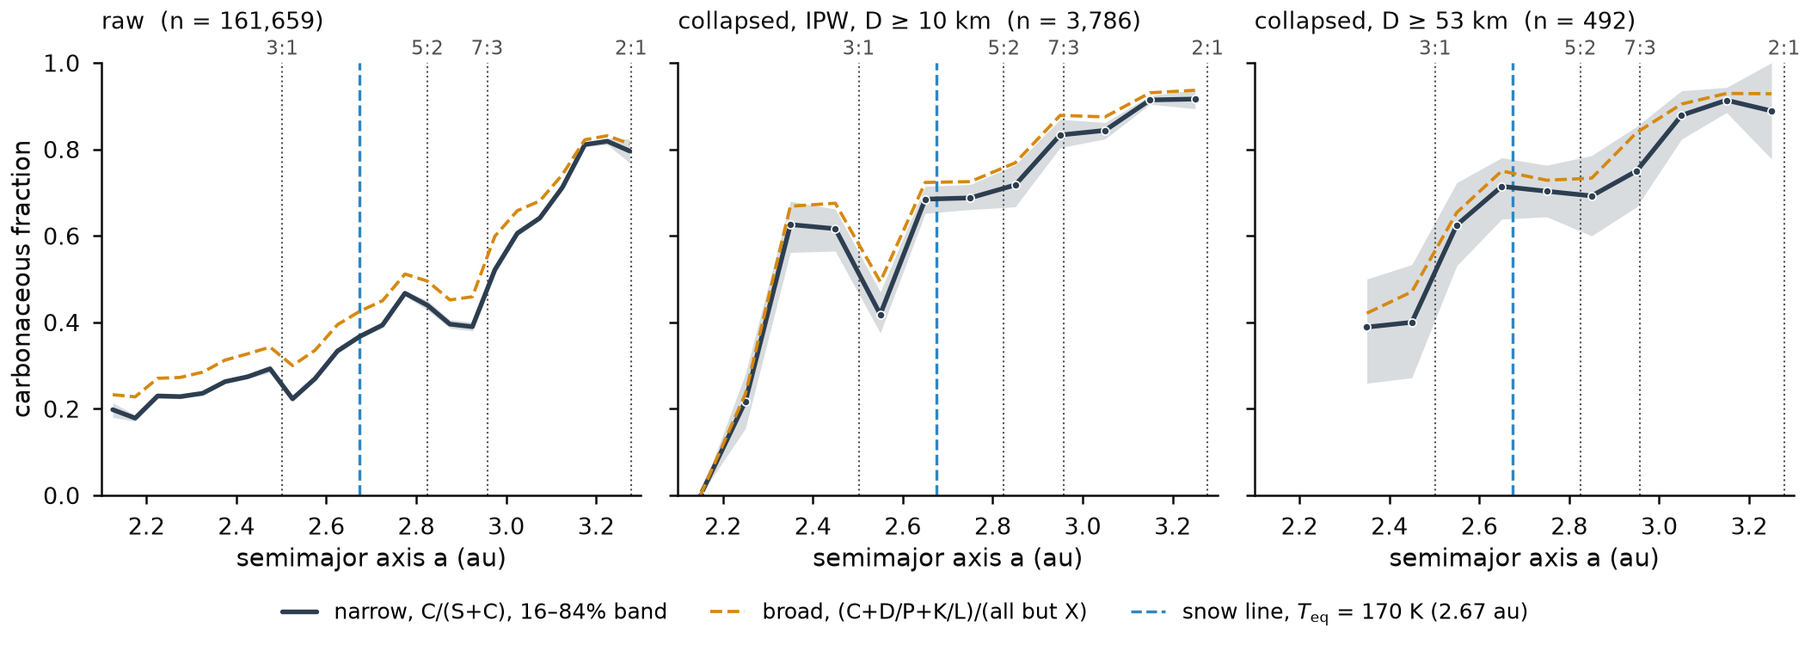
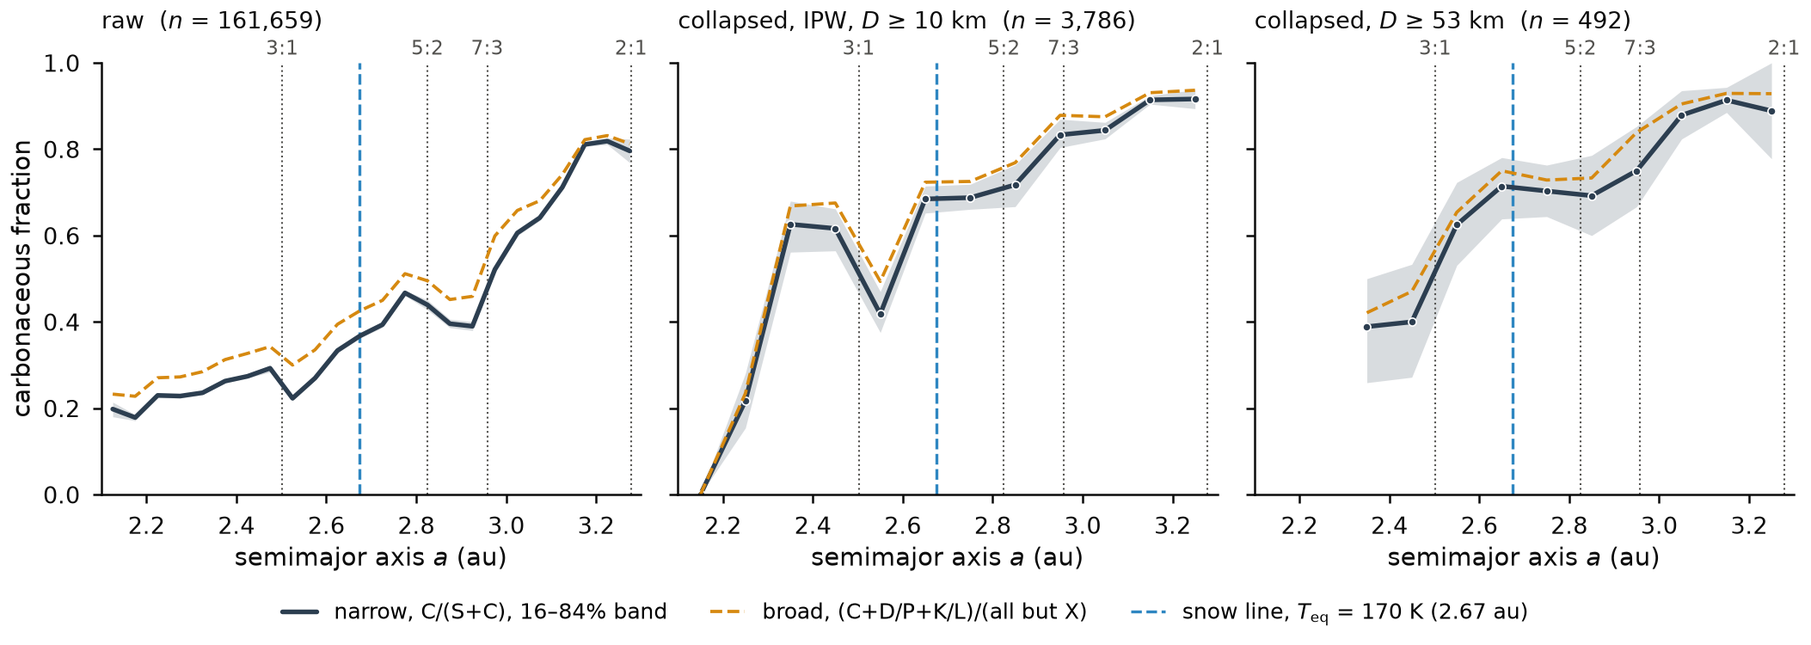
Set figure variables in italics and clear Fig. 12's legend (v2.6.3)
Figures (drawing only; summary.json is identical apart from the version):
- Variables in labels are italic, as the paper sets them: semimajor axis a,
  diameter D, absolute magnitude H, sample size n, P(C | a), KS p, proper
  e_P and sin i_P. The relation sign stays outside math with text spaces,
  as in the existing "p_V < 0.10". Every figure but Figs. 1 and 7 changes.
- Fig. 12: the legend moves below the plot, where the p_V = 0.30 line no
  longer crosses it; the figure keeps its 2.0 in height.
- Fig. 10: the Koronis label moves off the 5:2 line and no family label
  sits on the axis.
- Figs. 2 and 11: no doubled parentheses in the legends.
- Fig. 8: the lower panel gives its diameter limits in km.

Repo text:
- README: release history becomes a list under "Releases" (text moved
  verbatim), with v2.6.3 added; v2.6.2 was merged but not released on its
  own. Fixes stale figure numbers (circularity is Fig. 2; v2.5.0 added
  Figs. 6, 8, 10 and 13; v2.3.1 changed what is now Fig. 5), names IPW as
  in the paper, writes au and American spelling.
- pipeline.py: three comments cite current figure numbers; the log line
  writes au.
- Version 2.6.3 in __init__.py and CITATION.cff (date-released 2026-10-10).

diff --git a/src/beltgradient/figures.py b/src/beltgradient/figures.py
@@ -37,6 +37,16 @@ RCPARAMS = {
     "axes.titlepad": 3, "axes.labelpad": 2, "lines.linewidth": 1.2, "lines.solid_capstyle": "round",
 }
 GROUP_ORDER = ["S-like", "K/L", "X", "C-like", "D/P"]
+AXIS_A = "semimajor axis $a$ (au)"
+ELEMENT_LABELS = {"e_p": "proper $e_\\mathrm{P}$", "sini_p": "proper $\\sin i_\\mathrm{P}$"}
+
+
+def _math(s: str) -> str:
+    """Variables in italic, as the paper sets them: "D≥10 km" -> "$D$ ≥ 10 km", "$H$ < 15", "$n$ = 3,786".
+    The relation sign stays outside math, with text spaces, as in "$p_\\mathrm{V}$ < 0.10"."""
+    s = re.sub(r"\bD ?≥ ?(\d+)", r"$D$ ≥ \1", s)
+    s = re.sub(r"\bH < (\d+)", r"$H$ < \1", s)
+    return re.sub(r"\bn = ", "$n$ = ", s)
 
 
 def _fig(w, h, **kw):
@@ -65,7 +75,7 @@ def completeness_plot(comp: pd.DataFrame, h_c: float, d_c: float):
     ax.axhline(COMPLETE_FRAC, color=INK2, ls=":", lw=.6)
     ax.axvline(h_c, color=COLORS["S-like"], lw=.8)
     ax.text(h_c + .15, .08, f"$H_\\mathrm{{c}}$ = {h_c}\n$D_\\mathrm{{c}}$ ≈ {d_c:.0f} km", color=COLORS["S-like"], fontsize=6)
-    ax.set(xlabel="absolute magnitude H", ylabel="fraction with a published taxonomy", xlim=(5, 18.5), ylim=(0, 1.03))
+    ax.set(xlabel="absolute magnitude $H$", ylabel="fraction with a published taxonomy", xlim=(5, 18.5), ylim=(0, 1.03))
     ax.legend(loc="lower left")
     return fig
 
@@ -84,8 +94,8 @@ def c_fraction_panels(samples: dict[str, pd.DataFrame], panel_keys: list[str], r
         cb = c_fraction_curve(s, rng, "broad", edges=np.arange(A_MIN, A_MAX + 1e-9, wide), n_boot=20)
         ax.plot(cb.a[ok], cb.f[ok], color=COLORS["K/L"], lw=.9, ls="--")
         mark_structure(ax)
-        ax.set_title(f"{k.replace('≥', ' ≥ ')}  (n = {len(s):,})", loc="left", fontsize=6.5, color=INK)
-        ax.set(xlabel="semimajor axis a (au)", ylim=(0, 1), xlim=(A_MIN, A_MAX))
+        ax.set_title(_math(f"{k}  (n = {len(s):,})"), loc="left", fontsize=6.5, color=INK)
+        ax.set(xlabel=AXIS_A, ylim=(0, 1), xlim=(A_MIN, A_MAX))
     axes[0].set_ylabel("carbonaceous fraction")
     axes[0].plot([], [], color=COLORS["C-like"], lw=1.3, label="narrow, C/(S+C), 16–84% band")
     axes[0].plot([], [], color=COLORS["K/L"], lw=.9, ls="--", label="broad, (C+D/P+K/L)/(all but X)")
@@ -112,8 +122,8 @@ def stacked_composition(s: pd.DataFrame, d_c: float):
     top.set_xticks(x, [f"{int(n)}" for n in st.sum(axis=1)])
     top.tick_params(length=0, pad=1, labelsize=5.5, labelcolor=INK2)
     top.spines["top"].set_visible(False)
-    top.set_xlabel(f"bodies per bin (D ≥ {d_c:.0f} km, families collapsed)", fontsize=6, color=INK2, labelpad=2)
-    ax.set(xlim=(A_MIN, A_MAX), ylim=(0, 1), xlabel="semimajor axis a (au)", ylabel="fraction by number")
+    top.set_xlabel(_math(f"bodies per bin (D ≥ {d_c:.0f} km, families collapsed)"), fontsize=6, color=INK2, labelpad=2)
+    ax.set(xlim=(A_MIN, A_MAX), ylim=(0, 1), xlabel=AXIS_A, ylabel="fraction by number")
     fig.legend(*ax.get_legend_handles_labels(), loc="outside lower center", ncol=len(order), handlelength=1.0, columnspacing=1.0)
     return fig
 
@@ -148,11 +158,11 @@ def orbital_cdfs(orb: pd.DataFrame):
             for arr, g in [(S, "S-like"), (C, "C-like")]:
                 if len(arr):
                     ax.step(np.sort(arr), np.arange(1, len(arr) + 1) / len(arr), color=COLORS[g], lw=.9, where="post",
-                            label=f"{g} (n = {len(arr):,})")
+                            label=_math(f"{g} (n = {len(arr):,})"))
             if len(S) >= 10 and len(C) >= 10:
                 p = stats.ks_2samp(S, C).pvalue
-                ax.text(.03, .97, f"KS p = {p:#.2g}", transform=ax.transAxes, ha="left", va="top", fontsize=5.5, color=INK2)
-            ax.set(xlabel=lab.replace("proper ", "proper "), ylabel="cumulative fraction" if j == 0 else None, ylim=(0, 1.02))
+                ax.text(.03, .97, f"KS $p$ = {p:#.2g}", transform=ax.transAxes, ha="left", va="top", fontsize=5.5, color=INK2)
+            ax.set(xlabel=ELEMENT_LABELS[col], ylabel="cumulative fraction" if j == 0 else None, ylim=(0, 1.02))
             if i == 0:
                 ax.set_title(z, loc="left", fontsize=6.5)
                 ax.legend(loc="lower right", fontsize=5.5, handlelength=1.2)
@@ -161,14 +171,15 @@ def orbital_cdfs(orb: pd.DataFrame):
 
 def dark_fraction(alb: pd.DataFrame, d_ca: float, rng: np.random.Generator):
     fig, ax = _fig(COL_W, 2.3)
-    for lab, d, c in [("all with measured albedo", alb, "#9aa5a6"),
-                      (f"background, D ≥ {d_ca:.0f} km (complete)", alb[~alb.in_family & (alb.diameter_km >= d_ca)], COLORS["C-like"])]:
-        x, f, lo, hi, n = dark_curve(d, np.arange(A_MIN, A_MAX + 1e-9, 0.1 if "D ≥" in lab else BIN_W), rng)
+    for lab, d, c, w in [("all with measured albedo", alb, "#9aa5a6", BIN_W),
+                         (f"complete background, D ≥ {d_ca:.0f} km", alb[~alb.in_family & (alb.diameter_km >= d_ca)],
+                          COLORS["C-like"], 0.1)]:
+        x, f, lo, hi, n = dark_curve(d, np.arange(A_MIN, A_MAX + 1e-9, w), rng)
         k = n >= 5
         ax.fill_between(x[k], lo[k], hi[k], color=c, alpha=.2, lw=0)
-        ax.plot(x[k], f[k], color=c, lw=1.2, label=f"{lab} (n = {len(d):,})")
+        ax.plot(x[k], f[k], color=c, lw=1.2, label=_math(f"{lab} (n = {len(d):,})"))
     mark_structure(ax)
-    ax.set(xlabel="semimajor axis a (au)", ylabel="fraction with $p_\\mathrm{V}$ < 0.10", ylim=(0, 1), xlim=(A_MIN, A_MAX))
+    ax.set(xlabel=AXIS_A, ylabel="fraction with $p_\\mathrm{V}$ < 0.10", ylim=(0, 1), xlim=(A_MIN, A_MAX))
     fig.legend(*ax.get_legend_handles_labels(), loc="outside lower center")
     return fig
 
@@ -176,12 +187,12 @@ def dark_fraction(alb: pd.DataFrame, d_ca: float, rng: np.random.Generator):
 def circularity(assumed: pd.DataFrame, raw: pd.DataFrame, rng: np.random.Generator):
     """The assumed-albedo tier returns the step function it was built from."""
     fig, ax = _fig(COL_W, 2.3)
-    for lab, d, c in [("assumed-albedo labels (circular)", assumed, "#e67e22"),
+    for lab, d, c in [("assumed-albedo labels, circular", assumed, "#e67e22"),
                       ("published taxonomy, raw", raw, COLORS["C-like"])]:
         cc = c_fraction_curve(d, rng, "narrow", n_boot=50)
-        ax.plot(cc.a, cc.f, color=c, lw=1.2, label=f"{lab} (n = {len(d):,})")
+        ax.plot(cc.a, cc.f, color=c, lw=1.2, label=_math(f"{lab} (n = {len(d):,})"))
     mark_structure(ax, snow=False)
-    ax.set(xlabel="semimajor axis a (au)", ylabel="C/(S+C)", ylim=(-.02, 1.02), xlim=(A_MIN, A_MAX))
+    ax.set(xlabel=AXIS_A, ylabel="C/(S+C)", ylim=(-.02, 1.02), xlim=(A_MIN, A_MAX))
     fig.legend(*ax.get_legend_handles_labels(), loc="outside lower center")
     return fig
 
@@ -214,7 +225,7 @@ def size_distance_map(s: pd.DataFrame):
     top.spines["top"].set_visible(False)
     ax.set_yticks(np.arange(shape[0]) + .5, ["10–20", "20–50", "50–100", "≥ 100"])
     ax.tick_params(axis="y", length=0)
-    ax.set(xlabel="semimajor axis a (au)", ylabel="diameter D (km)", xlim=(A_MIN, A_MAX))
+    ax.set(xlabel=AXIS_A, ylabel="diameter $D$ (km)", xlim=(A_MIN, A_MAX))
     for side in ("left", "bottom"):
         ax.spines[side].set_visible(False)
     cb = fig.colorbar(m, ax=ax, pad=.02, fraction=.06, aspect=18, ticks=[0, .25, .5, .75, 1])
@@ -232,7 +243,7 @@ def crossover_fits(xo: pd.DataFrame):
     fig, (ax, ax2) = _fig(COL_W, 3.0, nrows=2, sharex=True, gridspec_kw={"height_ratios": [3, 1.15]})
     x = np.linspace(1.4, 4.0, 521)
     inb = (x >= A_MIN) & (x <= A_MAX)
-    labels = [k.replace("≥", " ≥ ") for k in xo.index]
+    labels = [_math(k) for k in xo.index]
     for ax_ in (ax, ax2):
         ax_.axvspan(A_MIN, A_MAX, color=BAND, lw=0, zorder=0)
         ax_.axvline(SNOW_LINE_AU, color=SNOW, lw=.8, ls="--", zorder=1)
@@ -250,18 +261,20 @@ def crossover_fits(xo: pd.DataFrame):
         ax.axhline(yy, color="#dcdbd6", lw=.5, zorder=1)
     ax.text((A_MIN + A_MAX) / 2, 1.0, "main belt", ha="center", va="bottom", fontsize=5.5, color=INK2, transform=ax.get_xaxis_transform())
     ax.text(SNOW_LINE_AU + .03, .02, "snow line", fontsize=5.5, color=SNOW, va="bottom")
-    ax.set(ylim=(0, 1), ylabel="fitted P(C | a)")
+    ax.set(ylim=(0, 1), ylabel="fitted $P(\\mathrm{C} \\mid a)$")
     ax.set_yticks([0, .1, .5, .9, 1])
     fig.legend(*ax.get_legend_handles_labels(), loc="outside upper center", ncol=2, fontsize=5.5)
-    ax2.set_yticks(range(len(xo)), ["raw", "IPW, D ≥ 10", "D ≥ 53", "background"][::-1] if len(xo) == 4 else labels[::-1])
+    short = ["raw", "IPW, D ≥ 10 km", "D ≥ 53 km", "background"]
+    ax2.set_yticks(range(len(xo)), [_math(s) for s in short][::-1] if len(xo) == 4 else labels[::-1])
     ax2.tick_params(axis="y", length=0, labelsize=5.5)
-    ax2.set(xlim=(1.4, 4.0), ylim=(-.6, len(xo) - .4), xlabel="semimajor axis a (au)")
+    ax2.set(xlim=(1.4, 4.0), ylim=(-.6, len(xo) - .4), xlabel=AXIS_A)
     ax2.set_ylabel("$a_{50}$", fontsize=6)
     return fig
 
 
 FAMILY_LABELS = {"Vesta": (0, -.035), "Flora": (-.03, -.05), "Nysa-Polana": (0, -.032), "Eunomia": (0, .055),
-                 "Koronis": (0, -.03), "Eos": (0, .05), "Themis": (0, .045), "Hygiea": (0, .045)}
+                 "Koronis": (.012, -.03), "Eos": (0, .05), "Themis": (0, .045), "Hygiea": (0, .045)}
+LABEL_Y_MIN = .02   # keeps a label's box above the axis line
 
 
 def proper_element_map(mb: pd.DataFrame, orb: pd.DataFrame, ftab: pd.DataFrame):
@@ -275,19 +288,20 @@ def proper_element_map(mb: pd.DataFrame, orb: pd.DataFrame, ftab: pd.DataFrame):
     for g in ["S-like", "C-like"]:
         d = orb[orb.group.eq(g)]
         ax.scatter(d.a_p, d.sini_p, s=1.6, color=COLORS[g], lw=0, alpha=.9, zorder=2,
-                   label=f"{g} (n = {len(d):,})")
+                   label=_math(f"{g} (n = {len(d):,})"))
     for name, (dx, dy) in FAMILY_LABELS.items():
         ids = ftab.index[ftab.fam_name.eq(name)]
         if len(ids):
             m = fam[fam.fam_id.eq(ids[0])]
             if len(m):
-                ax.text(m.a_p.median() + dx, m.sini_p.median() + dy, name.replace("-", "–"), fontsize=5.2, color=INK,
+                y = max(m.sini_p.median() + dy, LABEL_Y_MIN)
+                ax.text(m.a_p.median() + dx, y, name.replace("-", "–"), fontsize=5.2, color=INK,
                         ha="center", va="center", zorder=3,
                         bbox=dict(boxstyle="round,pad=0.12", fc="white", ec="none", alpha=.75))
     mark_structure(ax, snow=False)
     ax.set(xlim=(A_MIN, A_MAX), ylim=(0, top_i), xlabel="proper semimajor axis $a_\\mathrm{P}$ (au)", ylabel="proper sin $i_\\mathrm{P}$")
     fig.legend(*ax.get_legend_handles_labels(), loc="outside lower center", ncol=3, markerscale=3.5, handletextpad=.3,
-               title=f"background bodies, D ≥ {D_ORBIT:.0f} km:", title_fontsize=6, alignment="left")
+               title=_math(f"background bodies, D ≥ {D_ORBIT:.0f} km:"), title_fontsize=6, alignment="left")
     return fig
 
 
@@ -335,7 +349,7 @@ def robustness_summary(summary: dict, keys: list[str]):
             ax.plot(f, -y, marker=ZONE_MARKERS[z], ms=3.3, color=ZONE_COLORS[z], mec="white", mew=.45, ls="none", zorder=3)
         y += 1
     ax.axhline(-3.5 - .35, color=RULE, lw=.5)
-    ax.set_yticks(ys, labs, fontsize=5.8)
+    ax.set_yticks(ys, [_math(s) for s in labs], fontsize=5.8)
     for t, is_main in zip(ax.get_yticklabels(), main):
         t.set_color(INK if is_main else INK2)
     ax.tick_params(axis="y", length=0)
@@ -408,7 +422,7 @@ def sample_flow(summary: dict, keys: list[str]):
     fig.subplots_adjust(0, 0, 1, 1)
     ax.set(xlim=(0, 100), ylim=(0, 100)); ax.axis("off")
     _box(ax, 8, 86, 92, 99, [f"AsteroidCatalog {c['release']}: {c['rows']:,} bodies",
-                             f"main belt (2.1 < a < 3.3 au, q > 1.3 au): {c['main_belt']:,}"])
+                             f"main belt (2.1 < $a$ < 3.3 au, $q$ > 1.3 au): {c['main_belt']:,}"])
     _box(ax, 1, 62, 33, 77, ["published taxonomy", f"{tiers['taxonomy']:,}", "the labels analyzed"], focal=True)
     _box(ax, 35, 62, 65, 77, ["measured albedo", f"{tiers['albedo_proxy']:,}", "labels not used"], muted=True)
     _box(ax, 67, 62, 99, 77, ["assumed albedo", f"{tiers['assumed']:,}", "circular (Fig. 2)"], muted=True)
@@ -425,7 +439,7 @@ def sample_flow(summary: dict, keys: list[str]):
               ("collapsed", f"D ≥ {summary['completeness']['D_complete_km']:.0f} km", f"n = {ss['collapsed_complete']:,}"),
               ("background", f"D ≥ {summary['completeness']['D_complete_km']:.0f} km", f"n = {ss['background_complete']:,}")]
     for x0, lab in zip(xs, labels):
-        _box(ax, x0, y0, x0 + w, y1, list(lab))
+        _box(ax, x0, y0, x0 + w, y1, [_math(s) for s in lab])
     _arrow(ax, [(6, 62), (6, y1)])                                  # raw: straight from the labelled bodies
     _arrow(ax, [(37.75, 39), (37.75, y1)])                          # collapsed, IPW
     _arrow(ax, [(58, 39), (58, 32), (62.75, 32), (62.75, y1)])      # collapsed, size-complete
@@ -443,7 +457,7 @@ def albedo_by_group(mb: pd.DataFrame, cuts: tuple[float, float]):
     fig, ax = _fig(COL_W, 2.0)
     for g in ALBEDO_GROUPS:
         a = t.loc[t.group.eq(g), "albedo"].clip(1e-2, .999)
-        ax.hist(a, bins=bins, density=True, histtype="step", lw=1.0, color=COLORS[g], label=f"{g} (n = {len(a):,})")
+        ax.hist(a, bins=bins, density=True, histtype="step", lw=1.0, color=COLORS[g], label=_math(f"{g} (n = {len(a):,})"))
     ax.axvline(cuts[0], color=INK2, lw=.7)
     ax.axvline(cuts[1], color=INK2, lw=.6, ls=":")
     ax.set_xscale("log")
@@ -456,5 +470,6 @@ def albedo_by_group(mb: pd.DataFrame, cuts: tuple[float, float]):
     ax.set(xlim=(.01, 1), xlabel="measured geometric albedo $p_\\mathrm{V}$", ylabel="probability density")
     ax.set_yticks([])
     ax.spines["left"].set_visible(False)
-    ax.legend(loc="center right", handlelength=1.2)
+    # below the plot: inside, the 0.30 line crossed the legend
+    fig.legend(*ax.get_legend_handles_labels(), loc="outside lower center", ncol=2, handlelength=1.2)
     return fig

diff --git a/src/beltgradient/pipeline.py b/src/beltgradient/pipeline.py
@@ -71,7 +71,7 @@ def text_numbers(mb, ftab, comp, samples, keys, t_mass, zt_narrow, zt_broad) -> 
     top4 = t_mass.nlargest(4, "estimated_mass_kg")
     mz = mass_by_zone(t_mass, GROUP_ORDER)
 
-    # D/P share of the size-complete collapsed sample per 0.1 AU bin, from 2.9 AU outward (Fig. 3)
+    # D/P share of the size-complete collapsed sample per 0.1 AU bin, from 2.9 AU outward (Fig. 5)
     col = samples[keys[2]]
     edges = np.arange(A_MIN, A_MAX + 1e-9, 0.1)
     st = (col[col.group.isin(GROUP_ORDER)].assign(bin=pd.cut(col.semi_major_axis_au, edges))
@@ -86,7 +86,7 @@ def text_numbers(mb, ftab, comp, samples, keys, t_mass, zt_narrow, zt_broad) -> 
     comp_h14 = comp.loc[[iv for iv in comp.index if 13.5 <= iv.left < 14.5]]
     ipw_pool = mb[mb.tier.eq("taxonomy") & (mb.diameter_km >= D_IPW)]
 
-    # the albedo the catalog assumed for each assumed-tier label, and the range of a it covers (Fig. 1)
+    # the albedo the catalog assumed for each assumed-tier label, and the range of a it covers (Fig. 2)
     asm = mb[mb.tier.eq("assumed")].groupby("albedo_assumed_for_diameter").semi_major_axis_au.agg(["min", "max", "size"])
     # families the Limitations section names
     fam = lambda name: ftab.index[ftab.fam_name.eq(name)][0]
@@ -222,7 +222,7 @@ def _run(paths: Paths, write: bool, verbose: bool) -> Results:
     cat = load_catalog(paths.catalog)
     _log(verbose, f"catalog {CATALOG_RELEASE}: {len(cat):,} rows | catalog_date {cat.catalog_date.iloc[0]} | pipeline {cat.pipeline_version.iloc[0]}")
     mb = main_belt(cat)
-    _log(verbose, f"main belt ({A_MIN}-{A_MAX} AU): {len(mb):,} | taxonomy tier {mb.tier.eq('taxonomy').sum():,}")
+    _log(verbose, f"main belt ({A_MIN}-{A_MAX} au): {len(mb):,} | taxonomy tier {mb.tier.eq('taxonomy').sum():,}")
 
     # 3 · families, proper elements, optional one-step extension
     fams, members = load_families(paths.nesvorny)
@@ -305,7 +305,7 @@ def _run(paths: Paths, write: bool, verbose: bool) -> Results:
     # 9f · X-types split by measured albedo (point estimates: no RNG)
     xsplit = x_split_by_albedo(mb, fams, ftab, samples, keys, D_C)
 
-    # 9g · C/(S+C) of the IPW sample by a and D (Fig. 4; no RNG)
+    # 9g · C/(S+C) of the IPW sample by a and D (Fig. 6; no RNG)
     a_e, d_e, f_ad, n_ad = size_distance_grid(samples[keys[1]])
     size_map = {"sample": keys[1], "a_edges_au": [float(v) for v in a_e],
                 "d_edges_km": [None if np.isinf(v) else float(v) for v in d_e],

diff --git a/src/beltgradient/__init__.py b/src/beltgradient/__init__.py
@@ -4,4 +4,4 @@ Analysis code for Edwards (2026), "Constraints on the Origin of the Asteroid Bel
 from Debiased Taxonomic Data". ``python -m beltgradient fetch`` downloads the inputs;
 ``python -m beltgradient run`` regenerates every figure and ``results/summary.json``.
 """
-__version__ = "2.6.2"
+__version__ = "2.6.3"

diff --git a/README.md b/README.md
@@ -2,15 +2,15 @@
 
 Analysis code for L. M. Edwards (2026), **"Constraints on the Origin of the Asteroid Belt's Compositional Gradient from Debiased Taxonomic Data"** (Department of Aerospace, Physics, and Space Sciences, Florida Institute of Technology).
 
-If asteroids formed where they are today, the main belt should switch sharply from dry S-types to hydrated C-types at the nebular snow line near 2.7 AU. This package tests that against the 161,659 main-belt asteroids with a published taxonomy in the AsteroidCatalog release `data-2026-09-29c`, after collapsing collisional families and correcting for the brightness bias that favors S-types. It regenerates every figure and every data-derived number in the paper from two public inputs.
+If asteroids formed where they are today, the main belt should switch sharply from dry S-types to hydrated C-types at the nebular snow line near 2.7 au. This package tests that against the 161,659 main-belt asteroids with a published taxonomy in the AsteroidCatalog release `data-2026-09-29c`, after collapsing collisional families and correcting for the brightness bias that favors S-types. It regenerates every figure and every data-derived number in the paper from two public inputs.
 
-| | inner (2.1–2.5 AU) | middle | pristine | outer (–3.3 AU) |
+| | inner (2.1–2.5 au) | middle | pristine | outer (–3.3 au) |
 |---|---|---|---|---|
 | C/(S+C), raw count | 0.25 | 0.35 | 0.40 | 0.70 |
 | C/(S+C), families collapsed, IPW, D ≥ 10 km | 0.53 | 0.63 | 0.77 | 0.90 |
 | C/(S+C), families collapsed, D ≥ 53 km | 0.39 | 0.69 | 0.70 | 0.89 |
 
-S/C crossover: 2.84 AU raw, 2.41–2.47 AU once corrected; the 10→90% transition is 1.4–1.5 AU wide, wider than the belt. Full numbers with bootstrap intervals are in [`results/summary.json`](results/summary.json).
+S/C crossover: 2.84 au raw, 2.41–2.47 au once corrected; the 10→90% transition is 1.4–1.5 au wide, wider than the belt. Full numbers with bootstrap intervals are in [`results/summary.json`](results/summary.json).
 
 ## Reproduce
 
@@ -73,18 +73,18 @@ Tables 2–5 come from `summary.json` keys `zone_c_fraction_*`, `inner_belt_by_s
 
 Each is argued in the paper's Methods section. In short:
 
-1. **Only published taxonomy counts** (`spectral_type_source == "source"`: mostly SkyMapper and SDSS colours; see [Data](#data)). 83% of the catalog's labels come from an albedo *assumed by semimajor axis* and then thresholded. Using them would return the gradient by construction (Fig. 1).
+1. **Only published taxonomy counts** (`spectral_type_source == "source"`: mostly SkyMapper and SDSS colors; see [Data](#data)). 83% of the catalog's labels come from an albedo *assumed by semimajor axis* and then thresholded. Using them would return the gradient by construction (Fig. 2).
 2. **Groups by first letter.** S-like = S, Q, A, V, R, O; C-like = C, B, F; D/P = D, P, T, Z (Z is Mahlke et al.'s 2022 extremely red class); K/L kept separate; X (X, M, E) excluded. The fractions are narrow, C/(S+C), and broad, (C+D/P+K/L)/(all but X).
-3. **Families are collapsed, not deleted.** Each family becomes one body with the most common class of ≥ 3 labelled members, X-types not voting (with fewer labels, or a tie, the largest member's label), D from the summed D³, and the largest member's orbit. A body in two families goes to the larger; identical lists in the PDS bundle (529 Vibilia's file repeats 528 Leonidas's members; the 2024 lists of 1998 HD130 and 2001 PG20 are the same) count once.
-4. **Samples are limited by size, not brightness.** Two methods: size-complete (H_c = 10.5, so D ≥ 52.8 km for p = 0.04, from D = 1329 km p^-1/2 10^(-H/5); Pravec & Harris 2007) and inverse-completeness weighting (Horvitz & Thompson 1952) at D ≥ 10 km. Catalog H for small asteroids has been found to run 0.4–0.5 mag too bright near H = 14 (Pravec et al. 2012), which would shift both.
-5. **One-step family extension is off.** When it is turned on (`EXTEND_FAMILIES`), it attaches 197,421 more bodies (nearest listed member within the family's cutoff, by the HCM distance exactly as the bundle's `hcluster.c` computes it), yet no zone fraction changes by more than 0.01 and the crossover moves by less than 0.02 AU.
-6. **The orbit test is KS only**, Bonferroni over 8 tests (p < 0.00625). One test passes, outer-belt sin i (p = 0.006), from an excess of C-types at the Themis family's inclination and of S-like bodies at Eos's. With the family extension on, none passes (smallest p = 0.011), so it is read as family halos, not as a class-dependent excitation.
+3. **Families are collapsed, not deleted.** Each family becomes one body with the most common class of ≥ 3 labeled members, X-types not voting (with fewer labels, or a tie, the largest member's label), D from the summed D³, and the largest member's orbit. A body in two families goes to the larger; identical lists in the PDS bundle (529 Vibilia's file repeats 528 Leonidas's members; the 2024 lists of 1998 HD<sub>130</sub> and 2001 PG<sub>20</sub> are the same) count once.
+4. **Samples are limited by size, not brightness.** Two methods: size-complete (H_c = 10.5, so D ≥ 52.8 km for p = 0.04, from D = 1329 km p^-1/2 10^(-H/5); Pravec & Harris 2007) and inverse-probability weighting (IPW; Horvitz & Thompson 1952) at D ≥ 10 km. Catalog H for small asteroids has been found to run 0.4–0.5 mag too bright near H = 14 (Pravec et al. 2012), which would shift both.
+5. **One-step family extension is off.** When it is turned on (`EXTEND_FAMILIES`), it attaches 197,421 more bodies (nearest listed member within the family's cutoff, by the HCM distance exactly as the bundle's `hcluster.c` computes it), yet no zone fraction changes by more than 0.01 and the crossover moves by less than 0.02 au.
+6. **The orbit test is KS only**, Bonferroni over 8 tests (p < 0.00625). One test passes, outer-belt sin i (p = 0.0060), from an excess of C-types at the Themis family's inclination and of S-like bodies at Eos's. With the family extension on, none passes (smallest p = 0.011), so it is read as family halos, not as a class-dependent excitation.
 7. **X-types split by albedo, as a check.** By convention an X-type with a measured albedo is a P below p = 0.10, an M up to 0.30 and an E above (Fornasier, Clark & Dotto 2011, [doi:10.1016/j.icarus.2011.04.022](https://doi.org/10.1016/j.icarus.2011.04.022)), as the catalog's own `comp_class` does. Of the 13,763 classified X-types, 7,755 (X and its sub-classes other than Xe and Xk) have a measured albedo: 4,513 are P-like, 2,960 M-like and 282 E-like. Counting the P-like ones with D/P (and letting them vote in their families) raises the broad fraction by at most 0.064 and moves the narrow fraction by at most 0.010 (10 families change class); the P-like share of the split X-types is 0.38 in the inner belt and 0.54–0.66 beyond it.
 
 ## Data
 
 - **AsteroidCatalog release [`data-2026-09-29c`](https://github.com/loggger101/AsteroidCatalog/releases/tag/data-2026-09-29c)** (`asteroid_catalog.parquet`, 217 MB; 1,568,882 bodies, data contract 1.8.1). It merges JPL SBDB, SsODNet ssoBFT, NEOWISE and MP3C, resolving designations JPL cannot place through the Minor Planet Center's designation links. JPL adds bodies daily, so a build cannot be repeated; each release is one frozen build, never rebuilt under its tag, and `fetch` checks the sha256 its manifest lists. The analysis reads 17 of its columns (`catalog.COLS`). The tag is set in `config.CATALOG_RELEASE`.
-  - *Taxonomy.* The published labels are mostly multi-filter colours from SkyMapper (Sergeyev et al. 2022, [doi:10.1051/0004-6361/202142074](https://doi.org/10.1051/0004-6361/202142074)) and SDSS (Carvano et al. 2010, [doi:10.1051/0004-6361/200913322](https://doi.org/10.1051/0004-6361/200913322); DeMeo & Carry 2013, [doi:10.1016/j.icarus.2013.06.027](https://doi.org/10.1016/j.icarus.2013.06.027); Sergeyev & Carry 2021, [doi:10.1051/0004-6361/202140430](https://doi.org/10.1051/0004-6361/202140430)), with some MOVIS near-infrared colours (Popescu et al. 2018, [doi:10.1051/0004-6361/201833023](https://doi.org/10.1051/0004-6361/201833023)). Large bodies carry spectral classes: JPL's (Bus & Binzel 2002, [doi:10.1006/icar.2002.6856](https://doi.org/10.1006/icar.2002.6856)) where it has one, otherwise SsODNet's (Mahlke et al. 2022, [doi:10.1051/0004-6361/202243587](https://doi.org/10.1051/0004-6361/202243587)).
+  - *Taxonomy.* The published labels are mostly multi-filter colors from SkyMapper (Sergeyev et al. 2022, [doi:10.1051/0004-6361/202142074](https://doi.org/10.1051/0004-6361/202142074)) and SDSS (Carvano et al. 2010, [doi:10.1051/0004-6361/200913322](https://doi.org/10.1051/0004-6361/200913322); DeMeo & Carry 2013, [doi:10.1016/j.icarus.2013.06.027](https://doi.org/10.1016/j.icarus.2013.06.027); Sergeyev & Carry 2021, [doi:10.1051/0004-6361/202140430](https://doi.org/10.1051/0004-6361/202140430)), with some MOVIS near-infrared colors (Popescu et al. 2018, [doi:10.1051/0004-6361/201833023](https://doi.org/10.1051/0004-6361/201833023)). Large bodies carry spectral classes: JPL's (Bus & Binzel 2002, [doi:10.1006/icar.2002.6856](https://doi.org/10.1006/icar.2002.6856)) where it has one, otherwise SsODNet's (Mahlke et al. 2022, [doi:10.1051/0004-6361/202243587](https://doi.org/10.1051/0004-6361/202243587)).
   - *Albedos.* Almost every main-belt body with a measured albedo also has a NEOWISE fit in the catalog: NEOWISE Diameters and Albedos V2.0 (Mainzer et al. 2019, [doi:10.26033/18S3-2Z54](https://doi.org/10.26033/18S3-2Z54)), built from Masiero et al. (2011, 2012, 2014, 2017) and Nugent et al. (2015, 2016).
 - **Nesvorný HCM families and proper elements**: PDS Small Bodies Node bundle [`ast.nesvorny.families` V2.0](https://sbn.psi.edu/pds/resource/nesvornyfam.html). Cite it as Nesvorný, D. (2024), *Nesvorný HCM asteroid families bundle* V2.0, NASA PDS, [doi:10.26033/5hyq-6k90](https://doi.org/10.26033/5hyq-6k90). It holds 119 families from Nesvorný et al. (2015), 153 from Nesvorný, Roig, Vokrouhlický & Brož (2024, ApJS 274, 25), and synthetic proper elements for 1,249,051 orbits. It is fetched from the PDS archive.
 
@@ -104,7 +104,21 @@ The catalog is a merger, and two of its sources make citation a condition of use
 
 The full list is in the [AsteroidCatalog citations](https://github.com/loggger101/AsteroidCatalog/blob/main/CITATIONS.md).
 
-See [`CITATION.cff`](CITATION.cff). The paper cites release **v2.6.2**, which reads the AsteroidCatalog release `data-2026-09-29c` (data contract 1.8.1). It writes label subscripts upright, as the paper does ($H_\mathrm{c}$, $D_\mathrm{c}$, $T_\mathrm{eq}$, $p_\mathrm{V}$, $a_\mathrm{P}$, $i_\mathrm{P}$), in Figs. 4, 10, 11, 12, 13 and A1; `summary.json` is identical to v2.6.1's apart from the version. v2.6.1 changed only how figures are drawn: the legends of Figs. 2, 4, 8 and 11 move outside the plot area, where no line crosses them; Fig. 9 prints its KS p-values to two significant figures as Table 5 does (0.030, 0.0060); Figs. 3 and 7 use American spelling; and every figure writes the astronomical unit as "au" (AAS and IAU style). `summary.json` is identical to v2.6.0's apart from the version. v2.6.0 added three figures (Figs. 1, 3 and 12) and the `summary.json` blocks behind them (`snow_line_track`, `sample_sizes`, `albedo_by_group`); every other output is identical to v2.5.0's. v2.5.0 redrew every figure at its printed size and adds four (Figs. 4, 6, 8 and 10 above); `summary.json` is identical to v2.4.0's apart from the version. v2.4.0 added the X-type split by albedo (Method 7, `summary.json` → `x_split_by_albedo`); every other output is identical to v2.3.1's. v2.3.1 differs from v2.3.0 only in Fig. 3 (`fig1b_stacked_composition.png`), whose bin counts now sit in their own row instead of colliding with the resonance labels; `summary.json` and the other figures are identical. Against `data-2026-09-27`, which v2.2.0 read, the release that v2.3.0 and v2.3.1 read adds two mineral-phase columns this analysis does not read and 225 main-belt bodies, all of them unclassified, and names 47 more bodies. No main-belt body's class, orbit, H, diameter, albedo or mass moves (beyond one part in 10¹²). So only the main-belt and assumed-albedo counts change (and the assumed-label share, 0.8323 → 0.8324), along with the two figures that show them (completeness and circularity); every fraction, crossover, orbit test, mass share and table is identical. v2.2.0 read `data-2026-09-27`, and v2.1.0 read `data-2026-09-26b`. Against the latter, the 2026-09-27 rebuild adds 751 main-belt bodies, none of them classified, and changes only masses estimated from a class density: an X-type with a measured albedo now takes the density of the P, M or E class that albedo indicates, one without takes their mixture, and the P and Q densities are lower. No main-belt body's class, orbit, H, diameter or albedo moves. So only the main-belt and assumed-albedo counts, the family fraction under the one-step extension (by 0.0002), the measured share of classified mass (0.940 → 0.951) and five mass shares (by at most 0.005) change, along with the three figures that show them (completeness, mass by zone, circularity). The mass-by-zone figure also puts its legend under the panels, where it no longer covers the outer zone's total. Every fraction, crossover, orbit test and table is identical. v2.1.0 differed from v2.0.0 (`data-2026-09-26`) in the same way: 185 more unclassified bodies and corrected Xe, Xk and Xc densities. The v1.x releases analysed the catalog's 2026-08-11 build (pipeline 1.1.0, frozen as this repository's [`data-v1`](https://github.com/loggger101/asteroid-belt-gradient/releases/tag/data-v1) snapshot), so their numbers differ slightly. v2.0.0 also groups classes F and Z, which v1.x left out of every fraction.
+See [`CITATION.cff`](CITATION.cff). The paper cites release **v2.6.3**, which reads the AsteroidCatalog release `data-2026-09-29c` (data contract 1.8.1). What each release changed is listed under [Releases](#releases).
+
+## Releases
+
+- **v2.6.3** (2026-10-10) changes only how figures are drawn. Variables in figure labels are set in italics, as the paper sets them (semimajor axis $a$, diameter $D$, absolute magnitude $H$, sample size $n$, $P(\mathrm{C} \mid a)$, KS $p$, proper $e_\mathrm{P}$ and $\sin i_\mathrm{P}$), in every figure but Figs. 1 and 7. The legend of Fig. 12 moves below the plot, where the $p_\mathrm{V} = 0.30$ line no longer crosses it; Fig. 10's Koronis and Nysa–Polana labels move clear of the 5:2 line and the axis; Figs. 2 and 11 drop doubled parentheses from their legends; and the lower panel of Fig. 8 gives its diameter limits in km. `summary.json` is identical to v2.6.1's apart from the version.
+- **v2.6.2** (merged 2026-10-10, not released on its own; its changes ship in v2.6.3). It writes label subscripts upright, as the paper does ($H_\mathrm{c}$, $D_\mathrm{c}$, $T_\mathrm{eq}$, $p_\mathrm{V}$, $a_\mathrm{P}$, $i_\mathrm{P}$), in Figs. 4, 10, 11, 12, 13 and A1; `summary.json` is identical to v2.6.1's apart from the version.
+- **v2.6.1** changed only how figures are drawn: the legends of Figs. 2, 4, 8 and 11 move outside the plot area, where no line crosses them; Fig. 9 prints its KS p-values to two significant figures as Table 5 does (0.030, 0.0060); Figs. 3 and 7 use American spelling; and every figure writes the astronomical unit as "au" (AAS and IAU style). `summary.json` is identical to v2.6.0's apart from the version.
+- **v2.6.0** added three figures (Figs. 1, 3 and 12) and the `summary.json` blocks behind them (`snow_line_track`, `sample_sizes`, `albedo_by_group`); every other output is identical to v2.5.0's.
+- **v2.5.0** redrew every figure at its printed size and adds four (Figs. 6, 8, 10 and 13 above); `summary.json` is identical to v2.4.0's apart from the version.
+- **v2.4.0** added the X-type split by albedo (Method 7, `summary.json` → `x_split_by_albedo`); every other output is identical to v2.3.1's.
+- **v2.3.1** differs from v2.3.0 only in Fig. 5 (`fig1b_stacked_composition.png`, then numbered Fig. 3), whose bin counts now sit in their own row instead of colliding with the resonance labels; `summary.json` and the other figures are identical.
+- **v2.3.0.** Against `data-2026-09-27`, which v2.2.0 read, the release that v2.3.0 and v2.3.1 read adds two mineral-phase columns this analysis does not read and 225 main-belt bodies, all of them unclassified, and names 47 more bodies. No main-belt body's class, orbit, H, diameter, albedo or mass moves (beyond one part in 10¹²). So only the main-belt and assumed-albedo counts change (and the assumed-label share, 0.8323 → 0.8324), along with the two figures that show them (completeness and circularity); every fraction, crossover, orbit test, mass share and table is identical.
+- **v2.2.0** read `data-2026-09-27`, and v2.1.0 read `data-2026-09-26b`. Against the latter, the 2026-09-27 rebuild adds 751 main-belt bodies, none of them classified, and changes only masses estimated from a class density: an X-type with a measured albedo now takes the density of the P, M or E class that albedo indicates, one without takes their mixture, and the P and Q densities are lower. No main-belt body's class, orbit, H, diameter or albedo moves. So only the main-belt and assumed-albedo counts, the family fraction under the one-step extension (by 0.0002), the measured share of classified mass (0.940 → 0.951) and five mass shares (by at most 0.005) change, along with the three figures that show them (completeness, mass by zone, circularity). The mass-by-zone figure also puts its legend under the panels, where it no longer covers the outer zone's total. Every fraction, crossover, orbit test and table is identical.
+- **v2.1.0** differed from v2.0.0 (`data-2026-09-26`) in the same way: 185 more unclassified bodies and corrected Xe, Xk and Xc densities.
+- **v2.0.0 and v1.x.** The v1.x releases analyzed the catalog's 2026-08-11 build (pipeline 1.1.0, frozen as this repository's [`data-v1`](https://github.com/loggger101/asteroid-belt-gradient/releases/tag/data-v1) snapshot), so their numbers differ slightly. v2.0.0 also groups classes F and Z, which v1.x left out of every fraction.
 
 ## License
 
